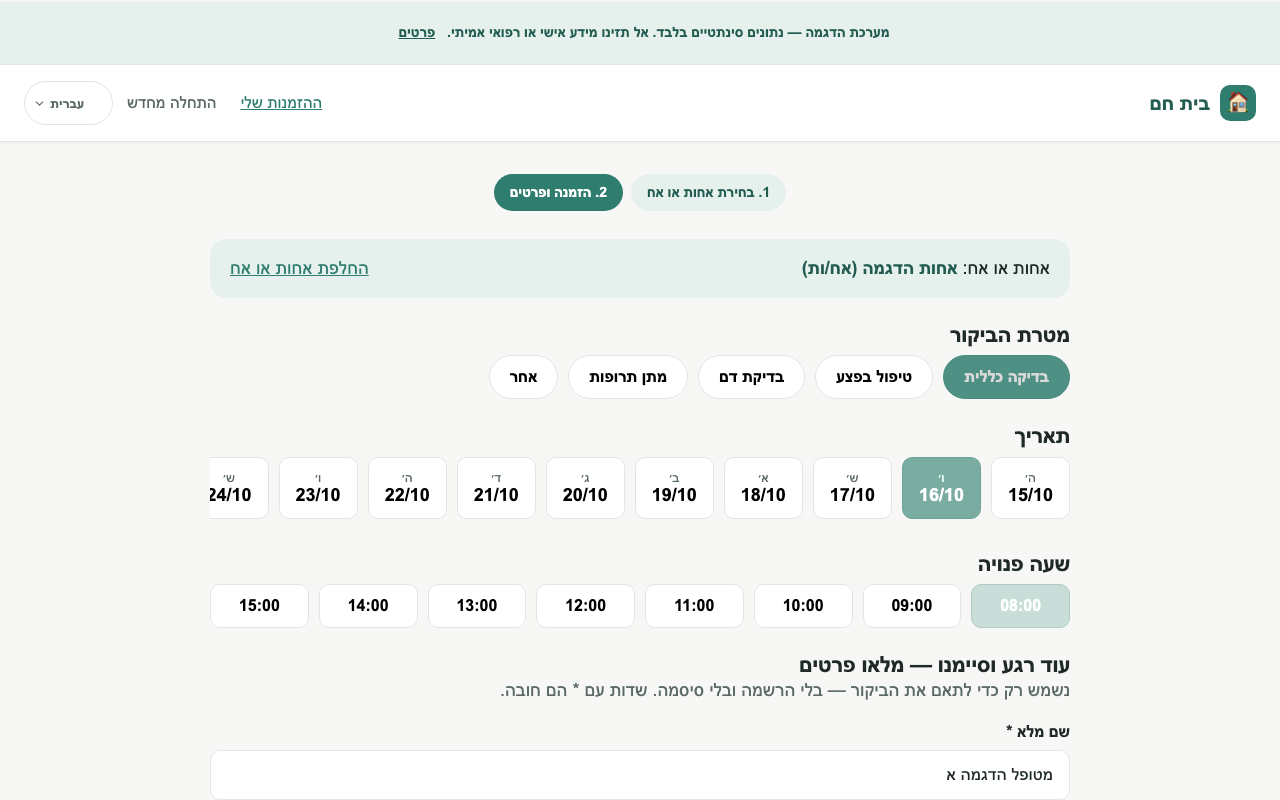
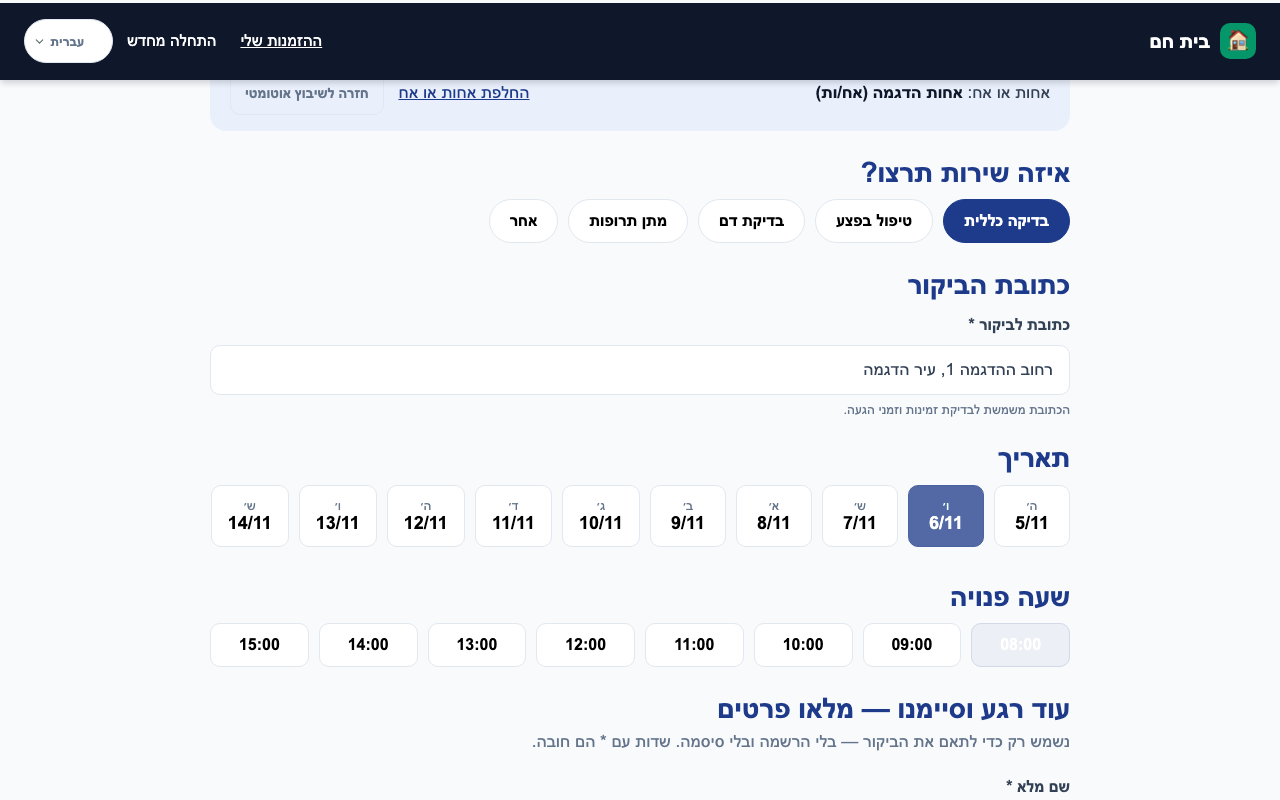
docs: README QA pass: regenerated screenshots from current UI (desktop + mobile), simpler architecture diagram, corrected wording (deletes, review status)

diff --git a/README.md b/README.md
@@ -7,13 +7,17 @@
 **Booking, visit documentation and rule-based risk flagging for home-healthcare teams.**
 A patient requests a visit without registering, an administrator approves and assigns it, a nurse documents the visit (even without signal), and the system flags worrying vital-sign patterns with transparent, hand-written clinical rules.
 
-> **Status: working prototype / final-year project, synthetic data only.** It is not a certified medical device and is not approved for real patients. The risk indicator is decision support, not diagnosis, and there is **no trained or clinically validated machine-learning model**. See [Development status](#development-status) for exactly what is on `main`, what is in review, and what is only proposed.
+> **Status: working prototype, built as a final-year project with a path toward a commercial product. Synthetic data only.** It is not a certified medical device and is not approved for real patients. The risk indicator is decision support, not diagnosis, and there is **no trained or clinically validated machine-learning model**. See [Development status](#development-status) for exactly what is on `main`, what is in review, and what is only proposed.
 
 <p align="center">
-  <img src="docs/demo-proof/01-patient-03-booking-details.png" alt="Patient booking page: visit type, date, time slots" width="48%">
-  <img src="docs/demo-proof/02-employee-03-visit-report.png" alt="Nurse visit report with vitals and signature" width="48%">
+  <img src="docs/demo-proof/01-patient-03-booking-details.png" alt="Patient booking page: service, address, date and time slots" width="100%">
 </p>
-<p align="center"><sub>Synthetic data. Hebrew right-to-left interface. Screenshots are produced by the mocked demo test (<code>tests/e2e/demo-journey.spec.js</code>) and may lag the latest UI.</sub></p>
+<p align="center">
+  <img src="docs/demo-proof/mobile/nurse-my-work.png" alt="Nurse mobile view: next visit with navigation, call and start-visit buttons" width="32%">
+  &nbsp;&nbsp;
+  <img src="docs/demo-proof/mobile/nurse-visit-report.png" alt="Nurse mobile view: visit report with procedures, treatment summary and signature" width="32%">
+</p>
+<p align="center"><sub>Synthetic data only; Hebrew right-to-left interface. Top: patient booking (desktop). Bottom: nurse on a phone. Regenerated on 2026-11-05 from the current <code>main</code> UI by the mocked demo test (<code>tests/e2e/demo-journey.spec.js</code>); they can lag later UI changes. The "demo system" banner is part of the demo mode.</sub></p>
 
 **Contents:** [Problem](#the-problem) · [Features](#features) · [Architecture](#architecture) · [Technology](#technology) · [Clinical analytics](#clinical-analytics) · [Security and privacy](#security-and-privacy) · [Offline behaviour](#offline-behaviour) · [Getting started](#getting-started) · [Testing and quality](#testing-and-quality) · [Project structure](#project-structure) · [Development status](#development-status) · [Roadmap](#roadmap) · [Documentation](#documentation) · [Disclaimer](#disclaimer)
 
@@ -35,25 +39,20 @@ Everything below is on `main` unless marked otherwise. Evidence is automated tes
 ## Architecture
 ```mermaid
 flowchart LR
-  subgraph Browser["Browser (PWA, installable)"]
-    UI["public/ - static HTML + vanilla JS<br/>patient, staff, admin pages<br/>Service Worker + offline draft queue"]
-  end
-  subgraph Backend["backend/ - Python / FastAPI (:8001)"]
-    API["booking, availability, approval,<br/>check-in, completion, risk orchestration"]
-  end
-  PRED["predictive-service/ - FastAPI (:8000)<br/>rule-based risk, baseline, forecasts"]
+  UI["<b>Browser (installable PWA)</b><br/>public/ - static HTML + vanilla JS<br/>Service Worker, offline draft queue"]
+  API["<b>backend/</b> FastAPI :8001<br/>booking, availability, approval,<br/>check-in, completion, risk orchestration"]
+  PRED["<b>predictive-service/</b> FastAPI :8000<br/>rule-based risk, baseline, forecasts"]
   subgraph SB["Supabase"]
     PG[("Postgres + RLS")]
     AUTH["Auth"]
     EDGE["Edge Function<br/>create-staff-login"]
   end
-  UI -- "reads via supabase-js (publishable key, RLS)" --> PG
-  UI -- "sign-in" --> AUTH
-  UI -- "writes: caller's JWT" --> API
-  UI -- "forecasts / health check" --> PRED
-  API -- "PostgREST with the caller's JWT (RLS stays in force)" --> PG
+  UI -- "reads + sign-in<br/>(publishable key, RLS)" --> SB
+  UI -- "writes with the user's JWT" --> API
+  UI -- "forecasts, health check" --> PRED
+  API -- "PostgREST with the user's JWT<br/>(RLS stays in force)" --> PG
   API -- "risk request" --> PRED
-  EDGE -- "service role, server-side only" --> AUTH
+  EDGE -. "service role, server-side only" .-> AUTH
 ```
 Key design decisions:
 - **Browser reads, backend writes.** Reads go to Supabase through RLS. Writes to bookings, visit reports, risk predictions and alerts go through the backend with the caller's own JWT; a service-role key is never used by the app (only the Edge Function holds one, server-side).
@@ -93,7 +92,7 @@ An assessment is computed by the backend, attested with an HMAC, and only then s
 **Known gaps (not yet closed)**
 - Offline drafts live in `localStorage`, separated per user but **not encrypted**.
 - Anonymous booking has no CAPTCHA; MFA and leaked-password protection are not enabled.
-- Migrations `008`-`013` exist and are tested but are **not applied to the live database**, so integrity features that depend on them (for example blocking physical deletes of clinical records) are not in force there. See [Development status](#development-status).
+- Migrations `008`-`013` (and the later proposals) exist and are tested on a throwaway database but are **not applied to the live database**. Based on the migration files, administrators there can still physically delete clinical rows such as visit reports; the proposals block this. The live state was last read on 2026-10-31. See [Development status](#development-status).
 - No privacy policy, consent flow, penetration test or legal review. Real use would also need hosting with HTTPS.
 
 Full text: [`docs/SECURITY_ARCHITECTURE.md`](docs/SECURITY_ARCHITECTURE.md), [`docs/REVIEW.md`](docs/REVIEW.md), [`SECURITY.md`](SECURITY.md) (how to report an issue).
@@ -168,7 +167,7 @@ File-by-file frontend tree: [`docs/HOW_IT_WORKS.md`](docs/HOW_IT_WORKS.md). Fold
 |---|---|
 | **On `main`** | Everything in [Features](#features); isolation fixes for patient records and visit reports; trend-forecast button fix; rule-based risk engine; offline drafts; CI |
 | **On `main`, database part not applied** | Staff deactivation instead of deletion, measurement history, risk-status age, amendments to completed reports, patient archive and record export (UI and tests on `main`; SQL `009`, `011`-`013` not applied to the live database) |
-| **Open pull requests (reviewed by CI, not merged)** | Offline-draft safety ([#27](https://github.com/diabhelal/home-care-crm/pull/27), [#33](https://github.com/diabhelal/home-care-crm/pull/33)); Service Worker ([#32](https://github.com/diabhelal/home-care-crm/pull/32)); backend reliability ([#25](https://github.com/diabhelal/home-care-crm/pull/25), [#28](https://github.com/diabhelal/home-care-crm/pull/28)); predictive input validation and wording ([#24](https://github.com/diabhelal/home-care-crm/pull/24)); no physical delete in the UI and author-only amendments ([#31](https://github.com/diabhelal/home-care-crm/pull/31)); admin can pause a service such as blood tests ([#35](https://github.com/diabhelal/home-care-crm/pull/35)); test harness ([#29](https://github.com/diabhelal/home-care-crm/pull/29)); opt-in LLM visit-summary draft ([#18](https://github.com/diabhelal/home-care-crm/pull/18)) |
+| **Open pull requests (not merged; CI state per PR in [`docs/REPO_STATUS.md`](docs/REPO_STATUS.md))** | Offline-draft safety ([#27](https://github.com/diabhelal/home-care-crm/pull/27), [#33](https://github.com/diabhelal/home-care-crm/pull/33)); Service Worker ([#32](https://github.com/diabhelal/home-care-crm/pull/32)); backend reliability ([#25](https://github.com/diabhelal/home-care-crm/pull/25), [#28](https://github.com/diabhelal/home-care-crm/pull/28)); predictive input validation and wording ([#24](https://github.com/diabhelal/home-care-crm/pull/24)); no physical delete in the UI and author-only amendments ([#31](https://github.com/diabhelal/home-care-crm/pull/31)); admin can pause a service such as blood tests ([#35](https://github.com/diabhelal/home-care-crm/pull/35)); test harness ([#29](https://github.com/diabhelal/home-care-crm/pull/29)); opt-in LLM visit-summary draft ([#18](https://github.com/diabhelal/home-care-crm/pull/18)) |
 | **Proposed SQL, tested on a throwaway database, not applied** | `008`-`013`; `015`-`019` record integrity, archive/void and access rules ([#30](https://github.com/diabhelal/home-care-crm/pull/30)); `021` service availability (#35). The live database has 23 migrations. Apply status per file: [`supabase/proposed/APPLIED.md`](supabase/proposed/APPLIED.md) |
 | **Not built** | Hosting with HTTPS, MFA, privacy and consent documents, penetration test, validated ML model, real-time updates, external alerting (email/SMS/phone) |
 
